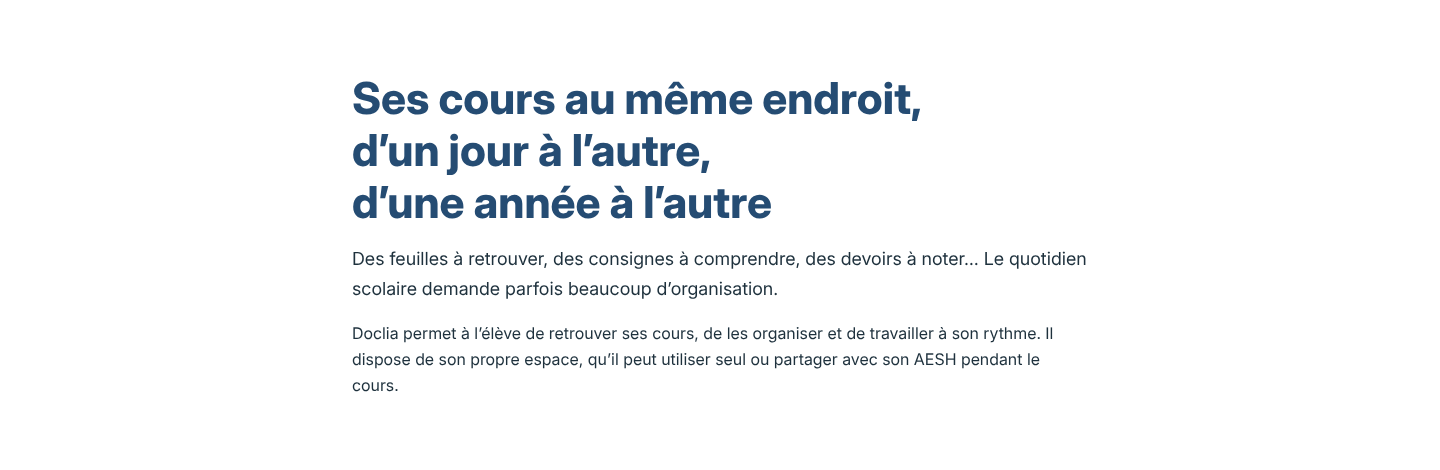
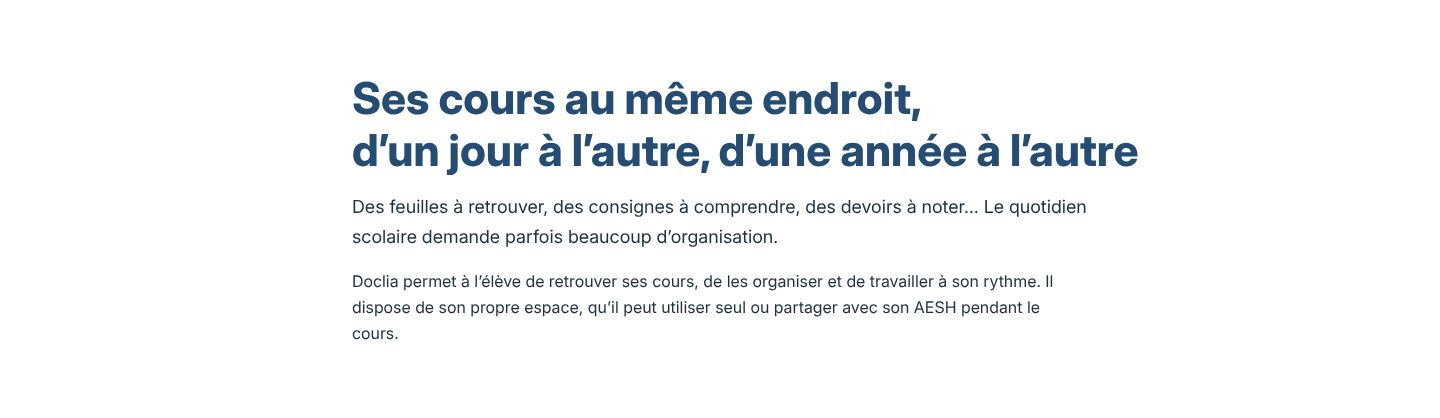
DEV-Site: /familles, titre — « d’un jour à l’autre, d’une année à l’autre » sur une seule ligne dès 768 px (consigne du CEO, 10/11 16:05) ; titre élargi à 52rem dès 1024 px, sans nowrap (WCAG 1.4.12)
Claude-Session: https://claude.ai/code/session_01RpKnjWoS5fRHWa3MWZjy1P

Changed region(s): [[0.2188, 0.1555, 0.8125, 0.8397]]

diff --git a/familles.html b/familles.html
@@ -61,8 +61,8 @@
   <section class="hero hero--page">
     <div class="container narrow">
       <!-- Page Familles — titre (docs/Doclia_Page_Familles.md V3, approuvée par le CEO le 09/11 22:16 ; mandat du CMO 22:16, CTO 22:20) -->
-      <!-- Titre modifié par consigne directe du CEO (10/11 16:00) ; retour à la ligne après la virgule voulu par le CEO ; les deux groupes ne se coupent pas dès 768 px, pour ne jamais laisser « l’autre » seul en fin de titre -->
-      <h1>Ses cours au même endroit,<br> <span class="groupe">d’un jour à l’autre,</span> <span class="groupe">d’une année à l’autre</span></h1>
+      <!-- Titre modifié par consigne directe du CEO (10/11 16:00) ; retour à la ligne après la virgule voulu par le CEO ; la deuxième ligne tient sur une ligne dès 768 px (CEO, 16:05 : pas de retour à la ligne entre « d’un jour à l’autre, d’une année à l’autre ») -->
+      <h1 class="titre-familles">Ses cours au même endroit,<br> d’un jour à l’autre, d’une année à l’autre</h1>
       <!-- Page Familles — accroche -->
       <p class="lead">Des feuilles à retrouver, des consignes à comprendre, des devoirs à noter… Le quotidien scolaire demande parfois beaucoup d’organisation.</p>
       <p>Doclia permet à l’élève de retrouver ses cours, de les organiser et de travailler à son rythme. Il dispose de son propre espace, qu’il peut utiliser seul ou partager avec son AESH pendant le cours.</p>

diff --git a/assets/css/site.css b/assets/css/site.css
@@ -1784,10 +1784,13 @@ html:has(.zoom-dialog[open]) {
   max-width: 28rem;
 }
 
-/* Titre de /familles (consigne du CEO, 10/11 16:00) : « d’un jour à l’autre, » et « d’une année à l’autre » restent d’un bloc
-   dès 768 px ; en dessous, ils peuvent se couper (téléphone, et espacement du texte agrandi WCAG 1.4.12) */
-@media (min-width: 48rem) {
-  .groupe {
-    white-space: nowrap;
+/* Titre de /familles (consigne du CEO, 10/11 16:00 et 16:05) : « d’un jour à l’autre, d’une année à l’autre » sur une seule ligne.
+   À 32 px (768 à 1023 px), elle tient dans la colonne de 736 px. À 44 px (dès 1024 px), elle mesure environ 790 px :
+   le titre s’élargit à 52rem (832 px), sans jamais toucher le bord de l’écran (bord droit à 976 px pour un écran de 1024).
+   Pas de « nowrap » : si l’espacement du texte est agrandi (WCAG 1.4.12), la ligne peut se couper au lieu de déborder. */
+@media (min-width: 64rem) {
+  .titre-familles {
+    width: 52rem;
+    max-width: none;
   }
 }
